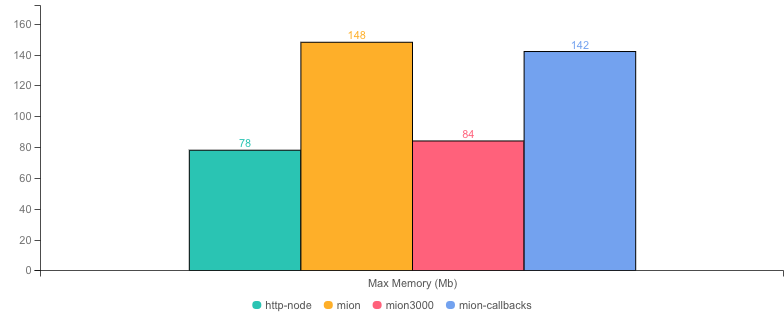
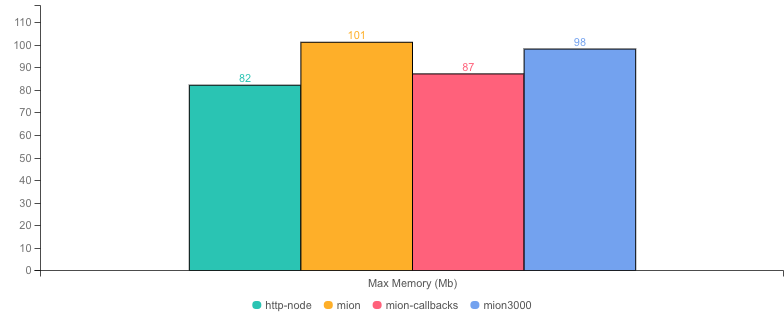
update benchmarks to send only required data to other frameworks and use latest mion 10b55845f5a93388260dd68300c53beaf518fcd4

diff --git a/_compiled-apps/apps/src/deepkitApp.js b/_compiled-apps/apps/src/deepkitApp.js
@@ -2,9 +2,9 @@
 Object.defineProperty(exports, "__esModule", { value: true });
 exports.initDeepkitApp = exports.setRoutes = exports.deepKitSayHelloRoute = exports.MyTransport = void 0;
 const { __ΩLogMessage } = require("@deepkit/logger");
+const { __ΩSayHello } = require("./models");
 const { __ΩHttpBody } = require("@deepkit/http");
 const { __ΩUser } = require("./models");
-const { __ΩSayHello } = require("./models");
 function __assignType(fn, args) {
     fn.__type = args;
     return fn;
@@ -14,8 +14,6 @@ const app_1 = require("@deepkit/app");
 const framework_1 = require("@deepkit/framework");
 const http_2 = require("@deepkit/http");
 const logger_1 = require("@deepkit/logger");
-const __ΩmionUpdate = [() => __ΩUser, 'updateUser', 'Pn!4"M'];
-const __ΩmionSayHelloResponse = [() => __ΩSayHello, 'sayHello', 'Pn!4"M'];
 let app;
 class MyTransport {
     write(message) {
@@ -27,18 +25,16 @@ class MyTransport {
 exports.MyTransport = MyTransport;
 MyTransport.__type = [() => __ΩLogMessage, 'message', 'write', 'supportsColor', 'Pn!2""0#P"0$5'];
 exports.deepKitSayHelloRoute = __assignType(() => {
-    return { sayHello: { hello: "world" } };
-}, [() => __ΩmionSayHelloResponse, '', 'Pn!/"']);
+    return { hello: "world" };
+}, [() => __ΩSayHello, '', 'Pn!/"']);
 const setRoutes = () => {
     const router = app.get(http_2.HttpRouterRegistry);
     router.any("/", exports.deepKitSayHelloRoute);
     router.post("/updateUser", __assignType((body) => {
-        const user = body["updateUser"];
+        const user = body;
         user.lastUpdate.setMonth(user.lastUpdate.getMonth() + 1);
-        return {
-            updateUser: user,
-        };
-    }, [() => __ΩHttpBody, () => __ΩmionUpdate, 'body', () => __ΩmionUpdate, '', 'Pn"o!"2#n$/%']));
+        return user;
+    }, [() => __ΩHttpBody, () => __ΩUser, 'body', () => __ΩUser, '', 'Pn"o!"2#n$/%']));
 };
 exports.setRoutes = setRoutes;
 const initDeepkitApp = () => {

diff --git a/benchmarks/fastify.js b/benchmarks/fastify.js
@@ -45,10 +45,7 @@ const rootRequestOpts = {
   schema: {
     response: {
       200: {
-        type: "object",
-        properties: {
-          sayHello: { $ref: "Hello" },
-        },
+        $ref: "Hello",
       },
     },
   },
@@ -57,18 +54,11 @@ const rootRequestOpts = {
 const updateUserOpts = {
   schema: {
     body: {
-      type: "object",
-      required: ["updateUser"],
-      properties: {
-        updateUser: { $ref: "User" },
-      },
+      $ref: "User",
     },
     response: {
       200: {
-        type: "object",
-        properties: {
-          updateUser: { $ref: "User" },
-        },
+        $ref: "User",
       },
     },
   },
@@ -76,16 +66,14 @@ const updateUserOpts = {
 
 // ##### ROUTES ############
 fastify.post("/", rootRequestOpts, function (req, reply) {
-  reply.send({ sayHello: { hello: "world" } });
+  reply.send({ hello: "world" });
 });
 
 fastify.post("/updateUser", updateUserOpts, async function (req, reply) {
-  const rawUser = req.body["updateUser"]; //date is not deserialized, it is with fastify and
+  const rawUser = req.body; //date is not deserialized, it is with fastify and
   const user = deserializeUser(rawUser); // we need to convert date input manually
   user.lastUpdate.setMonth(user.lastUpdate.getMonth() + 1);
-  reply.send({
-    updateUser: user,
-  });
+  reply.send(user);
 });
 
 fastify.listen({ port: 3000, host: "127.0.0.1" });

diff --git a/benchmarks/http-node.js b/benchmarks/http-node.js
@@ -56,10 +56,10 @@ const server = require("http").createServer(function (req, res) {
   req.on("end", function () {
     const rawBody = Buffer.concat(data).toString();
     if (req.url === "/") {
-      res.end(JSON.stringify({ sayHello: { hello: "world" } }));
+      res.end(JSON.stringify({ hello: "world" }));
     } else if (req.url === "/updateUser") {
       const body = JSON.parse(rawBody);
-      const rawUser = body["updateUser"];
+      const rawUser = body;
       if (!isUser(rawUser)) {
         const errorBody = JSON.stringify({
           error: "invalid input, not an user",
@@ -69,9 +69,7 @@ const server = require("http").createServer(function (req, res) {
       }
       const user = deserializeUser(rawUser); // we would need to deserialize to be able to use date etc
       user.lastUpdate.setMonth(user.lastUpdate.getMonth() + 1);
-      const resBody = JSON.stringify({
-        updateUser: user,
-      });
+      const resBody = JSON.stringify(user);
       reply(res, resBody, 200);
     } else {
       const errorBody = JSON.stringify({ error: "route not found" });

diff --git a/apps/src/deepkitApp.ts b/apps/src/deepkitApp.ts
@@ -23,14 +23,6 @@ import {
 } from "@deepkit/logger";
 import { SayHello, User } from "./models";
 
-type mionUpdate = {
-  updateUser: User;
-};
-
-type mionSayHelloResponse = {
-  sayHello: SayHello;
-};
-
 let app: App<any>;
 
 // LoggerTransport to disable console output
@@ -44,8 +36,8 @@ export class MyTransport implements LoggerTransport {
   }
 }
 
-export const deepKitSayHelloRoute = (): mionSayHelloResponse => {
-  return { sayHello: { hello: "world" } };
+export const deepKitSayHelloRoute = (): SayHello => {
+  return { hello: "world" };
 };
 
 export const setRoutes = () => {
@@ -53,12 +45,10 @@ export const setRoutes = () => {
 
   router.any("/", deepKitSayHelloRoute);
 
-  router.post("/updateUser", (body: HttpBody<mionUpdate>): mionUpdate => {
-    const user = body["updateUser"];
+  router.post("/updateUser", (body: HttpBody<User>): User => {
+    const user = body;
     user.lastUpdate.setMonth(user.lastUpdate.getMonth() + 1);
-    return {
-      updateUser: user,
-    };
+    return user;
   });
 };
 

diff --git a/_compiled-apps/apps/src/deepkitApp.d.ts b/_compiled-apps/apps/src/deepkitApp.d.ts
@@ -4,19 +4,15 @@ import { App } from "@deepkit/app";
 import { HttpRouterRegistry, HttpRequest } from "@deepkit/http";
 import { LogMessage, LoggerTransport } from "@deepkit/logger";
 import { SayHello } from "./models";
-type mionSayHelloResponse = {
-    sayHello: SayHello;
-};
 export declare class MyTransport implements LoggerTransport {
     write(message: LogMessage): void;
     supportsColor(): boolean;
 }
-export declare const deepKitSayHelloRoute: () => mionSayHelloResponse;
+export declare const deepKitSayHelloRoute: () => SayHello;
 export declare const setRoutes: () => void;
 export declare const initDeepkitApp: () => {
     deepKitApp: App<any>;
     deepkitServer: Server<typeof HttpRequest, any>;
     deepKitRouter: HttpRouterRegistry;
 };
-export {};
 //# sourceMappingURL=deepkitApp.d.ts.map

diff --git a/benchmarks/hapi.js b/benchmarks/hapi.js
@@ -56,7 +56,7 @@ async function start() {
       state: { parse: false },
     },
     handler: function (request, h) {
-      return { sayHello: { hello: "world" } };
+      return { hello: "world" };
     },
   });
 
@@ -71,13 +71,11 @@ async function start() {
       state: { parse: false },
     },
     handler: function (request, h) {
-      const rawUser = request.payload?.["updateUser"];
+      const rawUser = request.payload;
       if (!isUser(rawUser)) throw "app error, invalid parameter, not a user";
       const user = deserializeUser(rawUser); // we would need to deserialize to be able to use date etc
       user.lastUpdate.setMonth(user.lastUpdate.getMonth() + 1);
-      return {
-        updateUser: user,
-      };
+      return user;
     },
   });
 

diff --git a/benchmarks/express.js b/benchmarks/express.js
@@ -54,17 +54,15 @@ app.disable("x-powered-by");
 
 // ##### ROUTES ############
 app.post("/", function (req, res) {
-  res.json({ sayHello: { hello: "world" } });
+  res.json({ hello: "world" });
 });
 
 app.post("/updateUser", function (req, res) {
-  const rawUser = req.body?.["updateUser"];
+  const rawUser = req.body;
   if (!isUser(rawUser)) throw "app error, invalid parameter, not a user";
   const user = deserializeUser(rawUser);
   user.lastUpdate.setMonth(user.lastUpdate.getMonth() + 1);
-  res.json({
-    updateUser: user,
-  });
+  res.json(user);
 });
 
 app.listen(3000);

diff --git a/benchmarks/restify.js b/benchmarks/restify.js
@@ -44,7 +44,7 @@ const server = restify.createServer();
 server.use(restify.plugins.bodyParser({}));
 
 server.post("/updateUser", function (req, res) {
-  const rawUser = req.body?.["updateUser"];
+  const rawUser = req.body;
   if (!isUser(rawUser)) {
     res.statusCode = 400;
     res.send({
@@ -62,7 +62,7 @@ server.post("/updateUser", function (req, res) {
 
 server.post("/", function (req, res) {
   res.contentType = "json";
-  res.send({ sayHello: { hello: "world" } });
+  res.send({ hello: "world" });
 });
 
 server.listen(3000);

diff --git a/lib/autocannon.js b/lib/autocannon.js
@@ -35,7 +35,7 @@ const run = (opts = {}, handler) =>
     opts.body =
       handler === "mion"
         ? '{"updateUser":[{"id":123,"name":"john","surname":"smith","lastUpdate":"2020-12-17T02:24:00.000Z"}]}'
-        : '{"updateUser":{"id":123,"name":"john","surname":"smith","lastUpdate":"2020-12-17T02:24:00.000Z"}}';
+        : '{"id":123,"name":"john","surname":"smith","lastUpdate":"2020-12-17T02:24:00.000Z"}';
     opts.headers = {
       accept: "*/*",
       "Content-Type": "application/json",

diff --git a/README.md b/README.md
@@ -93,12 +93,14 @@ We are aware that the memory consumption is a bit higher than other frameworks, 
 
 This said it is the baseline memory which is a bit Higher (when the code gets loaded) and mion memory keeps steady under heavy workloads. Please note both mion and @deepkit/type are still in beta an there is room for improvement.
 
+Throughput is usually bigger on mion as we send/receive some more metadata in the request/response compared to other frameworks.
+
 ## Benchmark Results
 
 * __Machine:__ darwin x64 | 8 vCPUs | 16.0GB Mem
 * __Node:__ `v16.18.0`
-* __Run:__ Mon Jul 31 2023 01:25:50 GMT+0100 (Irish Standard Time)
-* __Method:__ `autocannon -c 100 -d 40.03 -p 10 localhost:3000` (two rounds; one to warm-up, one to measure)
+* __Run:__ Mon Jul 31 2023 02:20:30 GMT+0100 (Irish Standard Time)
+* __Method:__ `autocannon -c 100 -d 40.04 -p 10 localhost:3000` (two rounds; one to warm-up, one to measure)
 
 #### Req (R/s) 
 
@@ -132,10 +134,10 @@ This said it is the baseline memory which is a bit Higher (when the code gets lo
 
 |           | Version        | Router | Req (R/s)   | Latency (ms) | Output (Mb/s) | Max Memory (Mb) | Max Cpu (%) | Validation | Description                                                                                                |
 | :--       | --:            | --:    | :-:         | --:          | --:           | --:             | --:         | :-:        | :--                                                                                                        |
-| http-node | 16.18.0        | ✗      | 17766.9     | 55.78        | 4.52          | 83              | 123         | ✗          | Super basic and completely useless bare http server, should be the theoretical upper limit in performance. |
-| **mion**  | **0.1.0**      | **✓**  | **17638.6** | **56.21**    | **4.88**      | **97**          | **122**     | **✓**      | **validation and serialization out of the box**                                                            |
-| fastify   | 4.19.2         | ✓      | 15890.4     | 62.39        | 4.06          | 88              | 121         | -          | Validation is done using schemas and ajv. Schemas must be generated manually or using third party tools.   |
-| restify   | 8.6.1          | ✓      | 12381.2     | 80.20        | 3.18          | 93              | 119         | ✗          | Requires third party tools.                                                                                |
-| hapi      | 20.3.0         | ✓      | 7761.8      | 128.18       | 1.98          | 96              | 125         | ✗          | Manual validation using joi, or third party tools.                                                         |
-| deepkit   | 1.0.1-alpha.75 | ✓      | 5407.5      | 184.08       | 1.38          | 287             | 141         | ✓          | Automatic validation out of the box (The ones that made @deepkit/types), Their rpc is way more performant. |
-| express   | 4.18.2         | ✓      | 4539.4      | 219.30       | 1.16          | 111             | 124         | ✗          | needs third party tools, or third party tools                                                              |
+| http-node | 16.18.0        | ✗      | 22079.6     | 44.81        | 4.57          | 76              | 121         | ✗          | Super basic and completely useless bare http server, should be the theoretical upper limit in performance. |
+| **mion**  | **0.1.0**      | **✓**  | **16241.6** | **61.08**    | **4.49**      | **159**         | **143**     | **✓**      | **validation and serialization out of the box**                                                            |
+| fastify   | 4.19.2         | ✓      | 15876.0     | 62.46        | 3.83          | 86              | 121         | -          | Validation is done using schemas and ajv. Schemas must be generated manually or using third party tools.   |
+| restify   | 8.6.1          | ✓      | 11874.2     | 83.67        | 3.05          | 93              | 122         | ✗          | Requires third party tools.                                                                                |
+| hapi      | 20.3.0         | ✓      | 7956.1      | 125.03       | 1.91          | 97              | 126         | ✗          | Manual validation using joi, or third party tools.                                                         |
+| deepkit   | 1.0.1-alpha.75 | ✓      | 5261.4      | 189.35       | 1.26          | 171             | 152         | ✓          | Automatic validation out of the box (The ones that made @deepkit/types), Their rpc is way more performant. |
+| express   | 4.18.2         | ✓      | 4507.0      | 220.85       | 1.08          | 106             | 124         | ✗          | needs third party tools, or third party tools                                                              |

diff --git a/MION-OPTIONS.md b/MION-OPTIONS.md
@@ -27,8 +27,8 @@ We show the benchmarks and let you take your own conclusions!!
 
 * __Machine:__ darwin x64 | 8 vCPUs | 16.0GB Mem
 * __Node:__ `v16.18.0`
-* __Run:__ Mon Jul 31 2023 01:18:42 GMT+0100 (Irish Standard Time)
-* __Method:__ `autocannon -c 100 -d 40.02 -p 10 localhost:3000` (two rounds; one to warm-up, one to measure)
+* __Run:__ Mon Jul 31 2023 02:13:23 GMT+0100 (Irish Standard Time)
+* __Method:__ `autocannon -c 100 -d 40.04 -p 10 localhost:3000` (two rounds; one to warm-up, one to measure)
 
 #### Req (R/s) 
 
@@ -68,7 +68,7 @@ We show the benchmarks and let you take your own conclusions!!
 
 |                | Version   | Router | Req (R/s)   | Latency (ms) | Output (Mb/s) | Max Memory (Mb) | Max Cpu (%) | Validation | Description                                                          |
 | :--            | --:       | --:    | :-:         | --:          | --:           | --:             | --:         | :-:        | :--                                                                  |
-| http-node      | 16.18.0   | ✗      | 17880.9     | 55.40        | 4.55          | 78              | 124         | ✗          | theoretical upper limit in performance.                              |
-| **mion**       | **0.1.0** | **✓**  | **16192.7** | **61.25**    | **4.48**      | **148**         | **146**     | **✓**      | **using mion http with promises `HttpOptions.useCallbacks = false`** |
-| mion3000       | 0.1.0     | ✓      | 11113.8     | 89.42        | 3.75          | 84              | 125         | ✓          | mion with 3000 routes loaded (should have the most memory usage)     |
-| mion-callbacks | 0.1.0     | ✓      | 10701.2     | 92.85        | 3.61          | 142             | 133         | ✓          | using mion http with callbacks `HttpOptions.useCallbacks = true`     |
+| http-node      | 16.18.0   | ✗      | 20317.2     | 48.73        | 4.20          | 82              | 129         | ✗          | theoretical upper limit in performance.                              |
+| **mion**       | **0.1.0** | **✓**  | **17263.2** | **57.42**    | **4.77**      | **101**         | **127**     | **✓**      | **using mion http with promises `HttpOptions.useCallbacks = false`** |
+| mion-callbacks | 0.1.0     | ✓      | 11537.6     | 86.12        | 4.82          | 87              | 132         | ✓          | using mion http with callbacks `HttpOptions.useCallbacks = true`     |
+| mion3000       | 0.1.0     | ✓      | 11247.6     | 88.34        | 4.70          | 98              | 125         | ✓          | mion with 3000 routes loaded (should have the most memory usage)     |

diff --git a/COLD-STARTS.md b/COLD-STARTS.md
@@ -9,7 +9,7 @@ Cold start times are measure using the http server but are also indicative of ho
 ## Benchmark Results
 * __Machine:__ darwin x64 | 8 vCPUs | 16.0GB Mem
 * __Node:__ `v16.18.0`
-* __Run:__ Mon Jul 31 2023 01:28:10 GMT+0100 (Irish Standard Time)
+* __Run:__ Mon Jul 31 2023 02:22:51 GMT+0100 (Irish Standard Time)
 * __Method:__ `npm run metrics` (samples: 5)
 * __startup:__ time elapsed to setup the application
 * __listen:__ time elapsed until the http server is ready to accept requests (cold start)
@@ -22,25 +22,25 @@ Cold start times are measure using the http server but are also indicative of ho
 
   | | startup(ms) | listen(ms) |
   |-| -           | -          |
-| 10-startup-deepkit-routes.js | 1362 | 1364 |
+| 10-startup-deepkit-routes.js | 1363 | 1365 |
 | 10-startup-fastify-routes.js | 151 | 223 |
-| 10-startup-mion-routes.js | 76 | 84 |
-| 100-startup-deepkit-routes.js | 1349 | 1350 |
+| 10-startup-mion-routes.js | 76 | 85 |
+| 100-startup-deepkit-routes.js | 1348 | 1350 |
 | 100-startup-fastify-routes.js | 167 | 338 |
 | 100-startup-mion-routes.js | 75 | 84 |
-| 500-startup-deepkit-routes.js | 1355 | 1357 |
-| 500-startup-fastify-routes.js | 253 | 795 |
-| 500-startup-mion-routes.js | 74 | 87 |
-| 1000-startup-deepkit-routes.js | 1358 | 1360 |
-| 1000-startup-fastify-routes.js | 356 | 1349 |
+| 500-startup-deepkit-routes.js | 1361 | 1362 |
+| 500-startup-fastify-routes.js | 254 | 796 |
+| 500-startup-mion-routes.js | 75 | 87 |
+| 1000-startup-deepkit-routes.js | 1360 | 1362 |
+| 1000-startup-fastify-routes.js | 357 | 1352 |
 | 1000-startup-mion-routes.js | 75 | 91 |
-| 2000-startup-deepkit-routes.js | 1367 | 1369 |
-| 2000-startup-fastify-routes.js | 563 | 2419 |
+| 2000-startup-deepkit-routes.js | 1369 | 1370 |
+| 2000-startup-fastify-routes.js | 564 | 2428 |
 | 2000-startup-mion-routes.js | 76 | 106 |
-| 3000-startup-deepkit-routes.js | 1381 | 1382 |
-| 3000-startup-fastify-routes.js | 822 | 3639 |
+| 3000-startup-deepkit-routes.js | 1381 | 1383 |
+| 3000-startup-fastify-routes.js | 822 | 3651 |
 | 3000-startup-mion-routes.js | 76 | 117 |
-| 5000-startup-deepkit-routes.js | 1379 | 1381 |
-| 5000-startup-fastify-routes.js | 1790 | 6319 |
+| 5000-startup-deepkit-routes.js | 1386 | 1387 |
+| 5000-startup-fastify-routes.js | 1787 | 6328 |
 | 5000-startup-mion-routes.js | 77 | 128 |
-| startup-listen.js | 76 | 80 |
+| startup-listen.js | 76 | 81 |
